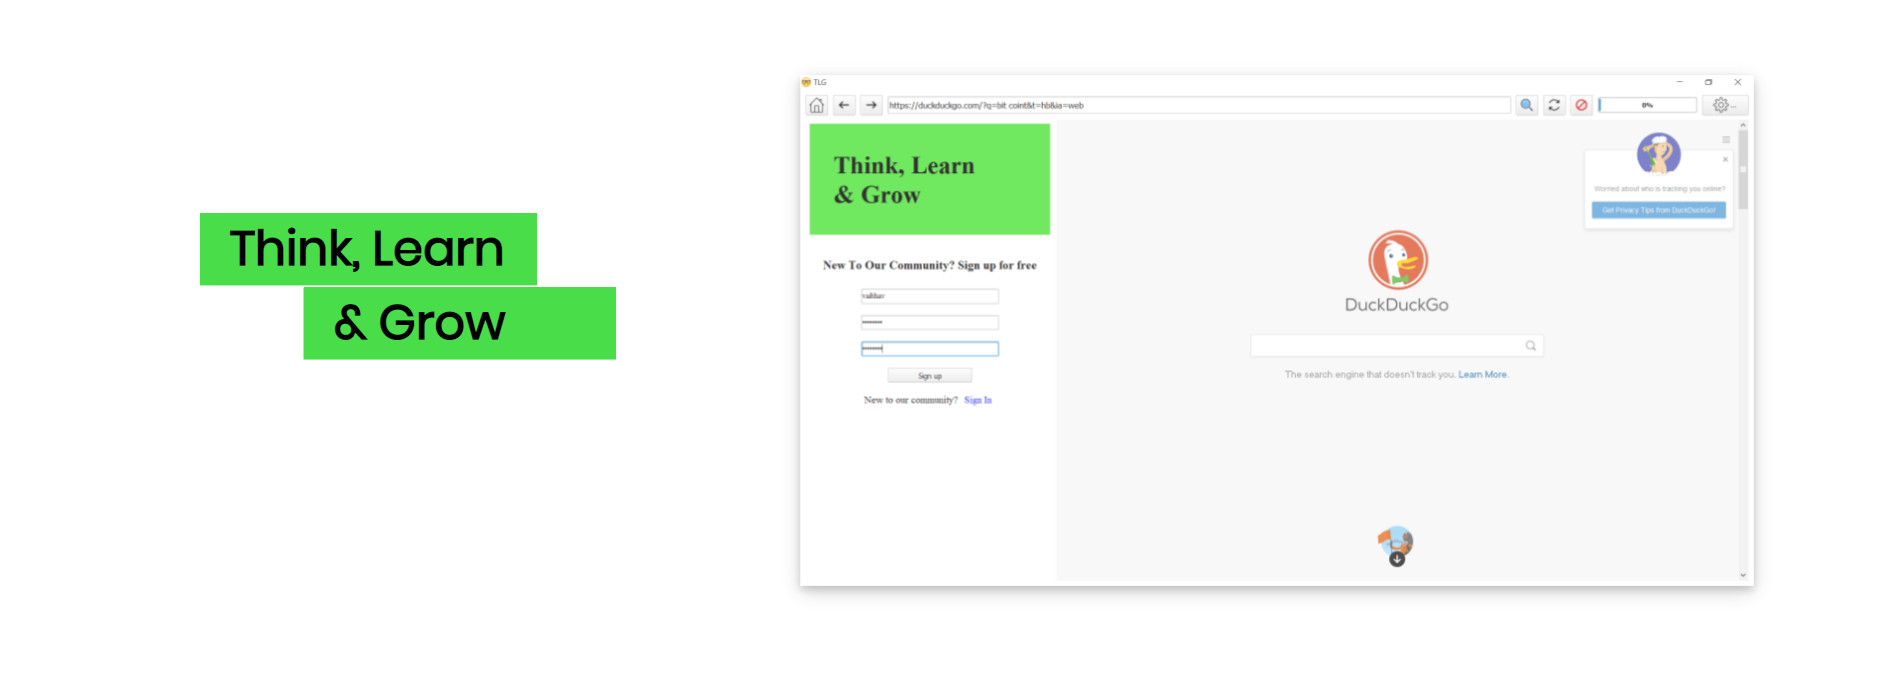
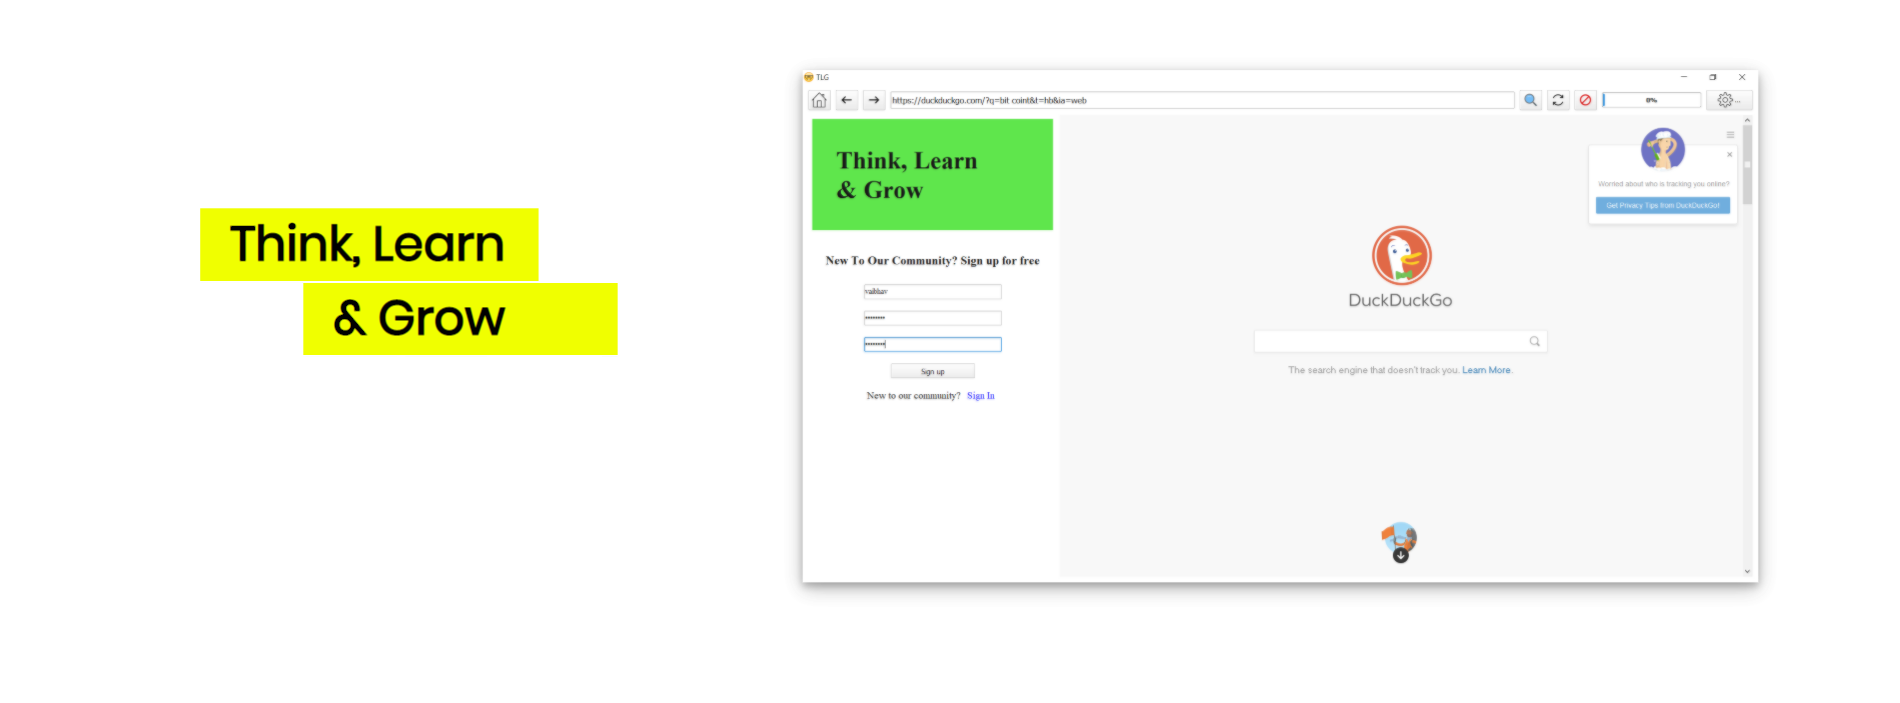
UI enhancement to support touch devices

diff --git a/css/portfolio.css b/css/portfolio.css
@@ -15,6 +15,7 @@ a {
 .content a {
     color: black;
     border-bottom: 2px solid #f0ff00;
+    font-weight: bold;
 }
 
 #header {
@@ -254,18 +255,16 @@ a {
     font-size: 26px;
 }
 
-#ThinkLearnGrow #wrapText h3 {
+#ThinkLearnGrow h3 {
     font-size: 20px;	
     margin: 0;
 }
 
 #wrapText {
     width: 150px;
-    height: 100px;
+    height: 68px;
     border: 1px solid white;
     margin: auto;
-    top:-18px;
-    position: relative;
 }
 
 #hackathonBorder{
@@ -574,6 +573,7 @@ a {
     margin-bottom: -4px;
     border: 1px solid #c3c3c3;
     border-radius: 4px;
+    opacity: 0.8;
 }
 
 .caption-container {
@@ -610,4 +610,20 @@ img.hover-shadow {
     z-index: 9999999;
     background-color: white;
     opacity: 0.9;
+}
+
+.viewProject {
+    border: 1px solid white;
+    width: 150px;
+    border-radius: 4px;
+    margin: 30px auto 0px auto;
+    cursor: pointer;
+    background-color: black;
+    color: white;
+}
+
+.viewImage {
+    position: relative;
+    top: -185px;
+    background-color: #313131;
 }

diff --git a/index.html b/index.html
@@ -91,21 +91,30 @@
 							<h3>Polaris</h3>
 							<p>Integrated Datawarehouse</p>
 						</a>
+						<div class="viewProject">
+							<a href="html/polaris.html">View Project >></a>
+						</div>
 					</div>
 					<div id="ivpHackthon">
 						<div id="hackathonBorder">
 							<a href="html/hackathon.html">
 								<h3 id="topFont">IVP UX Core 2019</h3>
 								<h3 id="bottomFont">Hackathon</h3>
-							</a>
-						</div>					
+							</a>							
+						</div>	
+						<div class="viewProject">
+							<a href="html/hackathon.html">View Project >></a>
+						</div>				
 					</div>
 					<div id="ThinkLearnGrow">
 						<div id="wrapText">
 							<a href="html/tlg.html">
-								<h3 style="margin-top: 20px;">Think, Learn</h3>
+								<h3>Think, Learn</h3>
 								<h3>& Grow</h3>
 							</a>
+						</div>
+						<div class="viewProject">
+							<a href="html/tlg.html">View Project >></a>
 						</div>					
 					</div>
 				</div>			

diff --git a/html/tlg.html b/html/tlg.html
@@ -47,7 +47,7 @@
 		<div id="tlgTask">
 			<div class="subheader whiteSubheader">
 				<div class="title"></div>
-				<div class="yellowDiv greenDiv">
+				<div class="yellowDiv">
 					<h1>Description</h1>
 				</div>
 			</div>
@@ -59,7 +59,7 @@
 		<div id="hackathonGallary">
 			<div class="subheader">
 				<div class="title"></div>
-				<div class="yellowDiv greenDiv">
+				<div class="yellowDiv">
 					<h1>Project</h1>
 				</div>
 			</div>
@@ -110,6 +110,7 @@
 				    <a class="next" onclick="plusSlides(1)">&#10095;</a>
 				    </div>		    
 				  </div>
+					<div style="margin-top: 20px">Click images to view in full screen</div>
 				</div>
 			</div>
 		</div>

diff --git a/html/hackathon.html b/html/hackathon.html
@@ -117,6 +117,8 @@
 				    <a class="next" onclick="plusSlides(1)">&#10095;</a>
 				    </div>		    
 				  </div>
+				<div style="margin-top: 20px">Click images to view in full screen</div>
+
 				</div>
 			</div>
 		</div>
